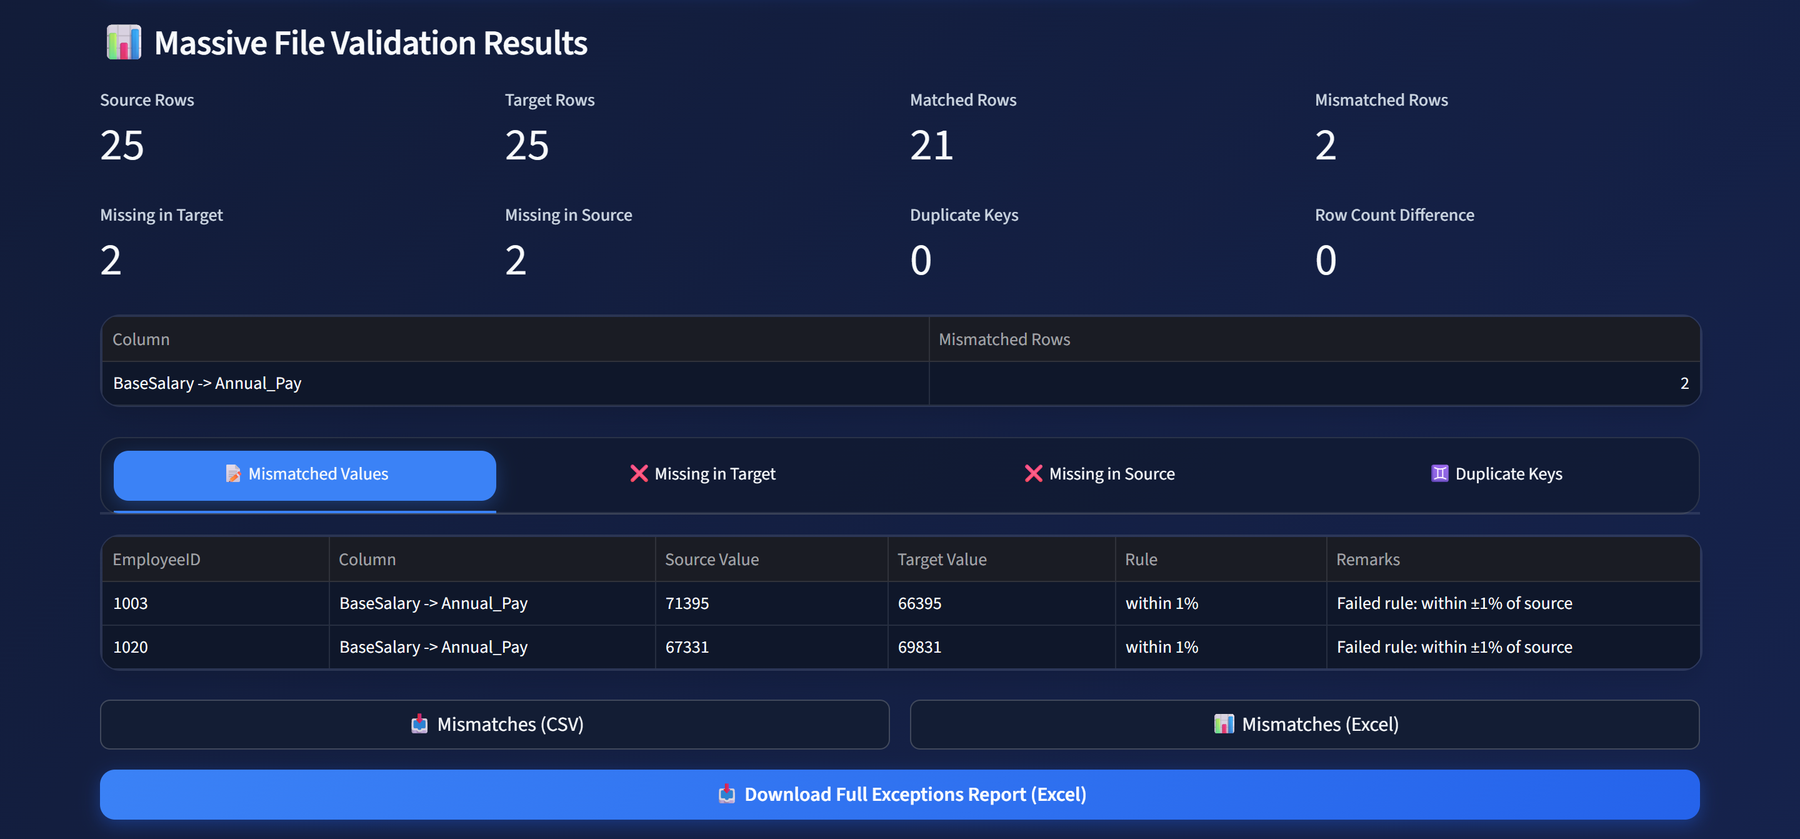
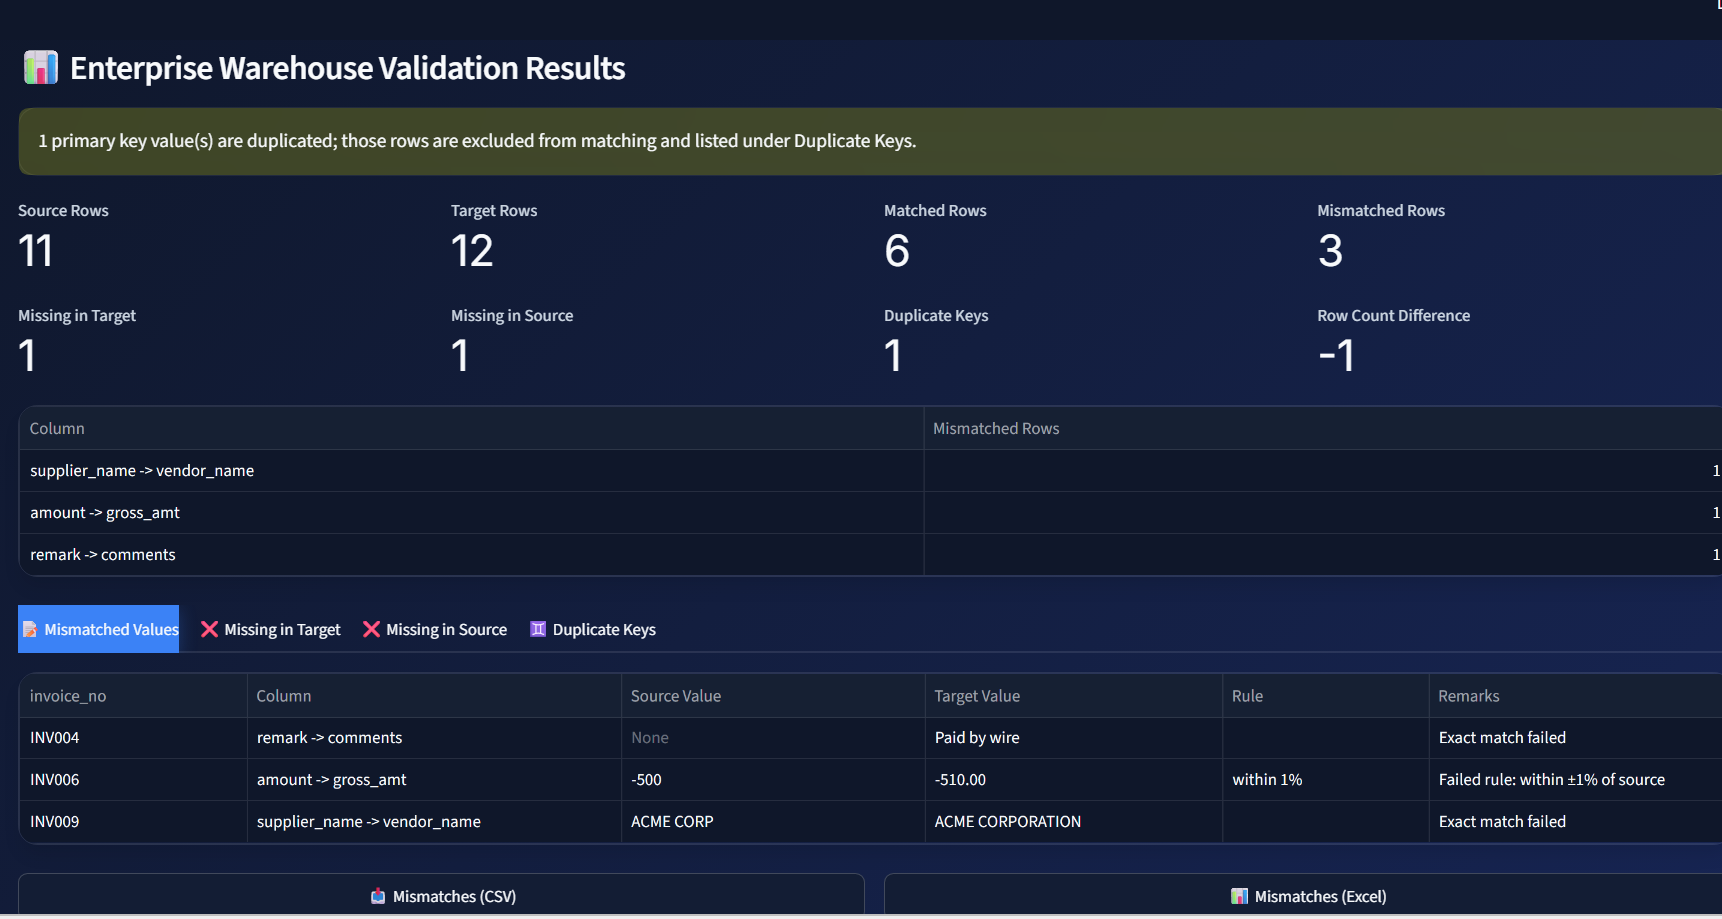
docs: real Oracle and AI screenshots, Oracle test kit guide, limitations
- results.png and mapping.png are now captures from a live test (Oracle
  Database Free, mapping suggested by Claude Sonnet 5), with alt text
- "Testing against a real Oracle database" subsection under Tests:
  Docker setup, loading the kit, connection settings, expected results,
  and a note that the script's password is a local throwaway
- Known limitations: pushdown validated end to end on Oracle; Snowflake,
  SQL Server and PostgreSQL still tested against SQLite only

diff --git a/README.md b/README.md
@@ -12,7 +12,7 @@ TrueAlign compares a *system of record* (source) against a *target* (a migrated 
 
 Sources can be CSV/Excel files or SQL queries against Snowflake, Oracle, SQL Server, PostgreSQL or SQLite.
 
-![Reconciliation results for the sample HR and payroll files: exact counts, mismatches per column, and tabs for each exception type](docs/screenshots/results.png)
+![Reconciliation results from a real Oracle run: exact counts, mismatches per column, and tabs for each exception type](docs/screenshots/results.png)
 
 ---
 
@@ -41,7 +41,7 @@ TrueAlign handles each of these the same way in every engine, and puts the compu
 
 ![Landing page: choose the engine tier that fits the data volume and source](docs/screenshots/landing.png)
 
-![Mapping grid for the sample inventory and vendor files: primary key, column pairs with different names, and plain-English validation rules](docs/screenshots/mapping.png)
+![AI-suggested mapping (Claude Sonnet 5) for JD Edwards-style source and target tables with different column names, plus plain-English validation rules](docs/screenshots/mapping.png)
 
 ## Architecture
 
@@ -221,6 +221,58 @@ The other test files cover the rest:
 
 - `tests/test_security.py`: API keys passed per call, no `exec`/`eval`, rejection of malicious LLM output, passwords with special characters, `.gitignore`.
 - `tests/test_architecture.py`: pushdown returns only exceptions and caps them, the CLI, templates, and headless [AppTest](https://docs.streamlit.io/develop/api-reference/app-testing) runs of all three tiers end to end.
+- `tests/test_oracle_kit.py`: the Oracle test kit below, run through all three engines.
+
+#### Testing against a real Oracle database
+
+`samples/oracle_test_setup.sql` creates two tables with one row per edge case:
+
+- `SRC_INVOICES`, JD Edwards style: space-padded `CHAR` keys and names, `NUMBER` amounts, `DATE` dates.
+- `TGT_INVOICES`, the migrated target: different column names, amounts stored as text, `TIMESTAMP` dates.
+
+1. Start Oracle Database Free in Docker, and wait until `docker logs oracle-free` shows `DATABASE IS READY TO USE!`:
+
+   ```bash
+   docker run -d --name oracle-free -p 1521:1521 -e ORACLE_PASSWORD=<admin password> -e APP_USER=validator -e APP_USER_PASSWORD='Test@1234#' gvenzl/oracle-free
+   ```
+
+2. Load the test data. The script ends by printing the row counts (11 and 12):
+
+   ```bash
+   docker cp samples/oracle_test_setup.sql oracle-free:/tmp/
+   docker exec oracle-free sqlplus -s /nolog "@/tmp/oracle_test_setup.sql"
+   ```
+
+3. In the app, open the **Enterprise SQL Warehouses** tier and connect with:
+
+   | Field | Value |
+   |---|---|
+   | SQL Dialect | Oracle |
+   | Host / Port | `localhost` / `1521` |
+   | Database Name | `FREEPDB1` |
+   | Username / Password | `validator` / the `APP_USER_PASSWORD` above |
+   | SQL Query 1 | `SELECT * FROM SRC_INVOICES` |
+   | SQL Query 2 | `SELECT * FROM TGT_INVOICES` |
+
+   Map the columns with AI or by hand, and set:
+   - Primary key: `INVOICE_NO`. Oracle column names show in lowercase in the app, as `invoice_no`.
+   - Rules: `within 1%` on `AMOUNT` and `ignore case` on `STATUS`.
+
+4. Expected result:
+
+   | Metric | Count | Rows |
+   |---|---|---|
+   | Source rows | 11 | |
+   | Target rows | 12 | |
+   | Matched | 6 | |
+   | Mismatched | 3 | `INV004` (NULL vs text remark), `INV006` (credit memo −500 vs −510, outside 1%), `INV009` (supplier name) |
+   | Missing in target | 1 | `INV010` |
+   | Missing in source | 1 | `INV011` |
+   | Duplicate keys | 1 | `INV012`, loaded twice in the target |
+
+> **Note:** the password `Test@1234#` in the script and the command above is a throwaway value for a local test container only. Don't reuse it anywhere else. (Its special characters also exercise the connection URL escaping.)
+
+`tests/test_oracle_kit.py` reads the rows straight from the same SQL script and asserts these exact counts on all three engines (pushdown on SQLite), so the expected results stay in sync with the code.
 
 ## Design decisions
 
@@ -256,7 +308,7 @@ tests/                 pytest suite
 
 ## Known limitations
 
-- The SQL for Oracle, SQL Server and Snowflake follows each database's documented syntax, but the automated suite only runs pushdown end to end against SQLite. For the other three, only the row-limit syntax is unit-tested. Validate against your own warehouse before relying on it for sign-off.
+- SQL pushdown has been validated end to end against Oracle Database Free (September 2026) with a JD Edwards-style test set covering CHAR padding, NULL handling, numeric type drift, DATE vs TIMESTAMP, percentage tolerance on negative amounts, duplicate keys and missing rows. Snowflake, SQL Server and PostgreSQL follow each database's documented syntax but are only tested against SQLite in the automated suite. Validate against your own warehouse before relying on it for sign-off.
 - Date detection covers ISO-8601 values. Other formats (for example `01/15/2024`, or JDE Julian dates) are compared as text unless converted in the source query.
 - Excel inputs on the DuckDB tier are read through pandas. Excel caps out at about 1M rows, so for anything larger export to CSV.
 
